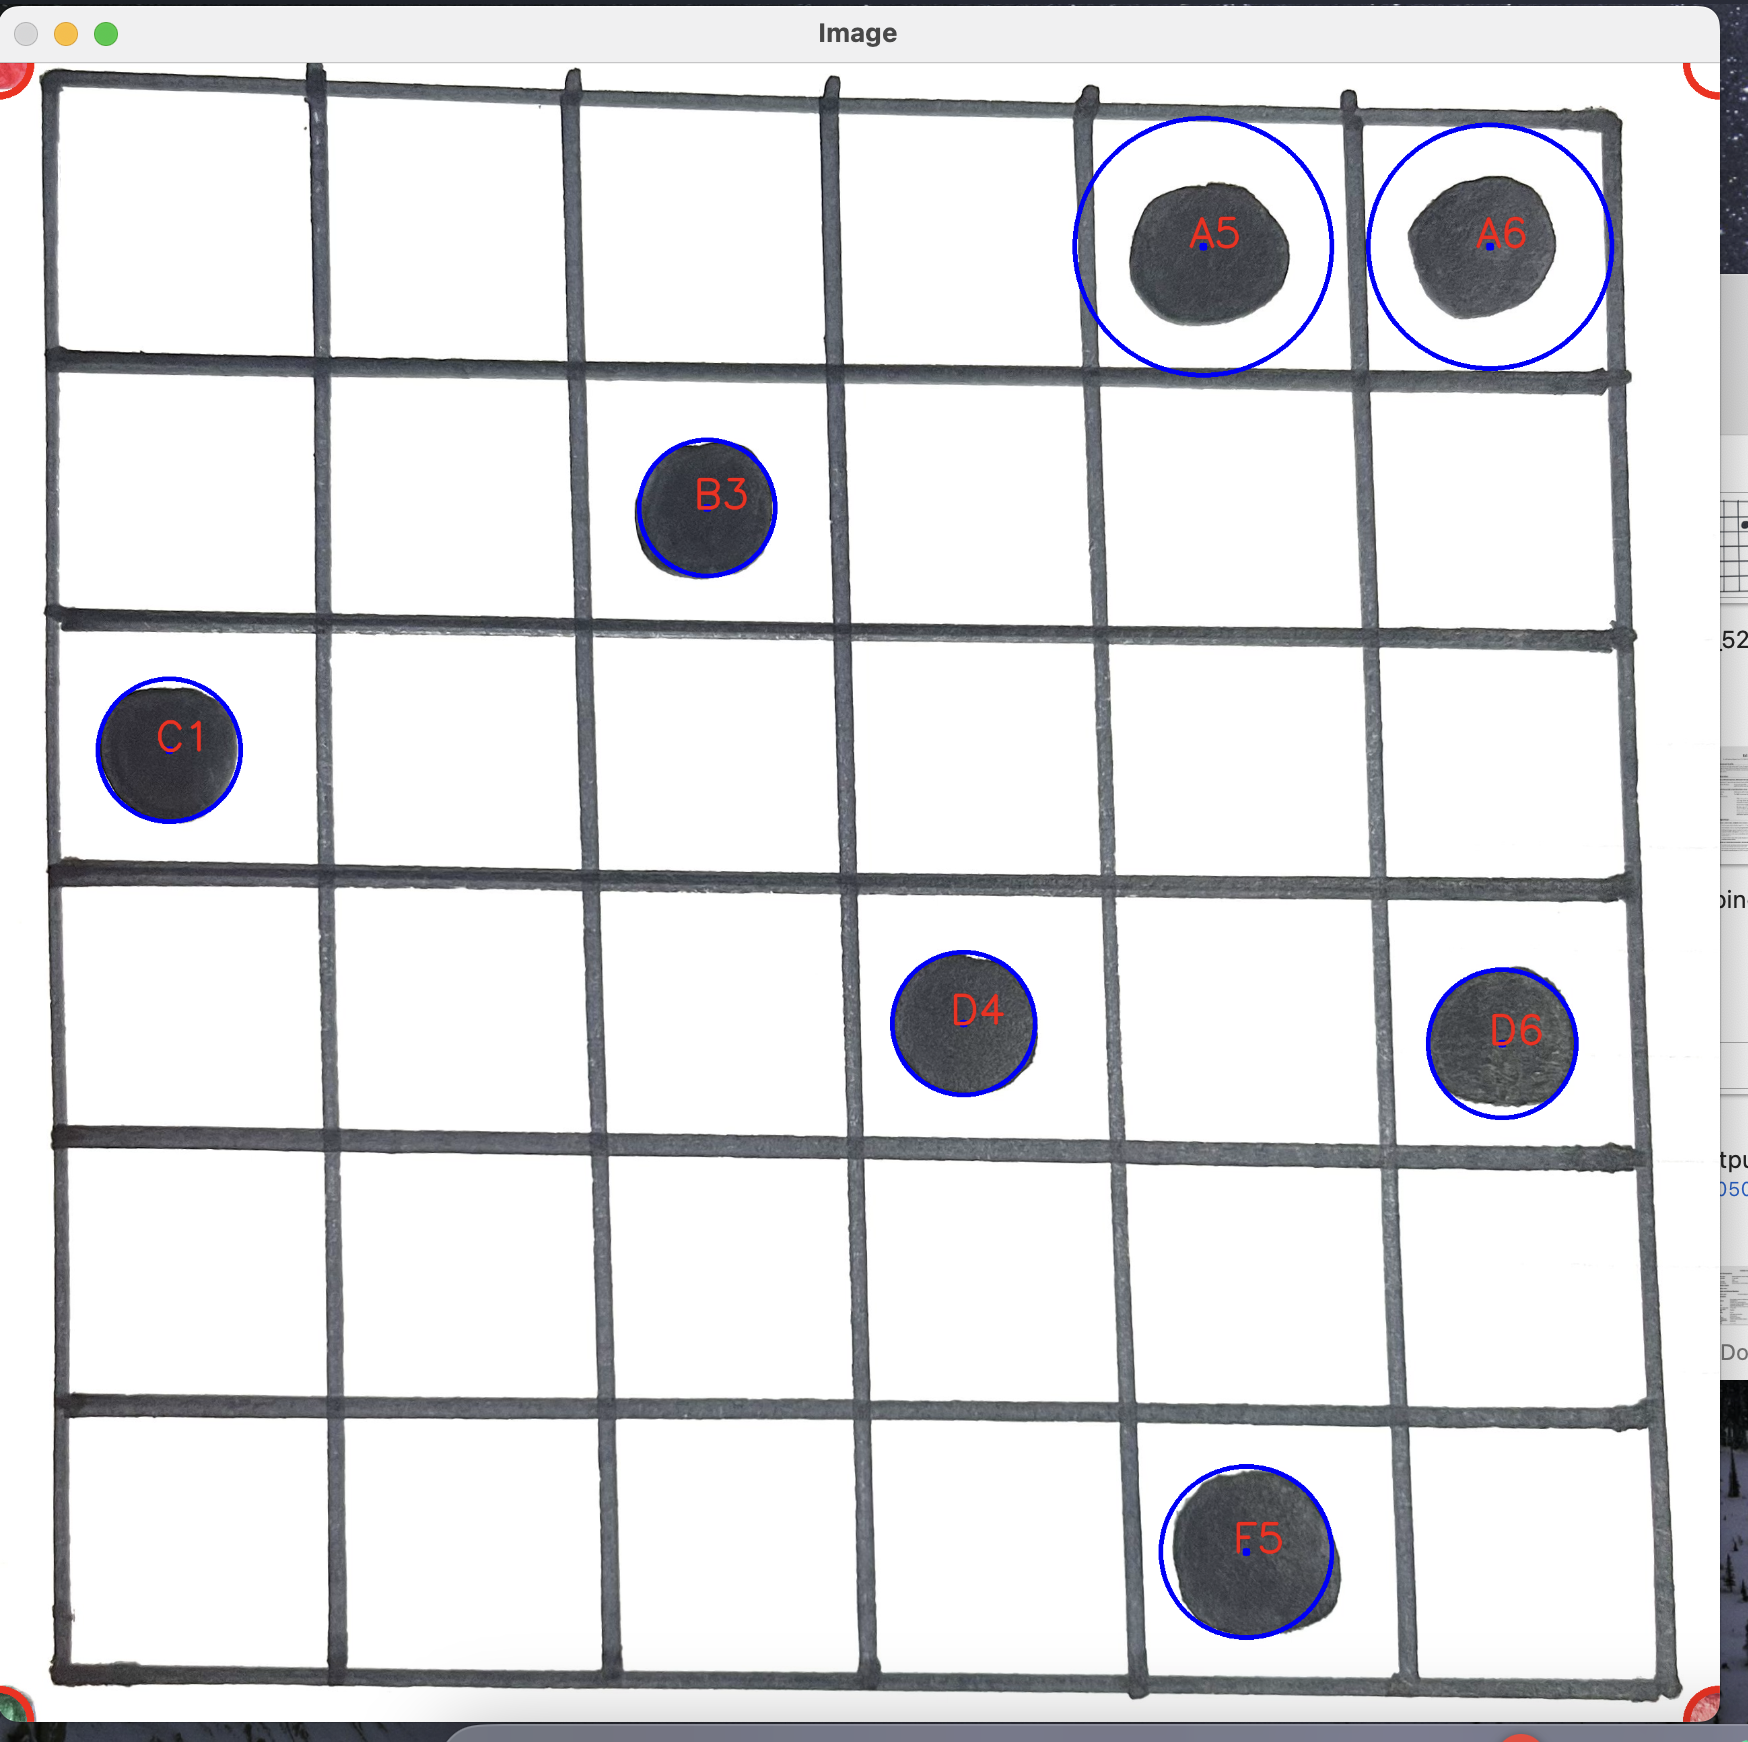
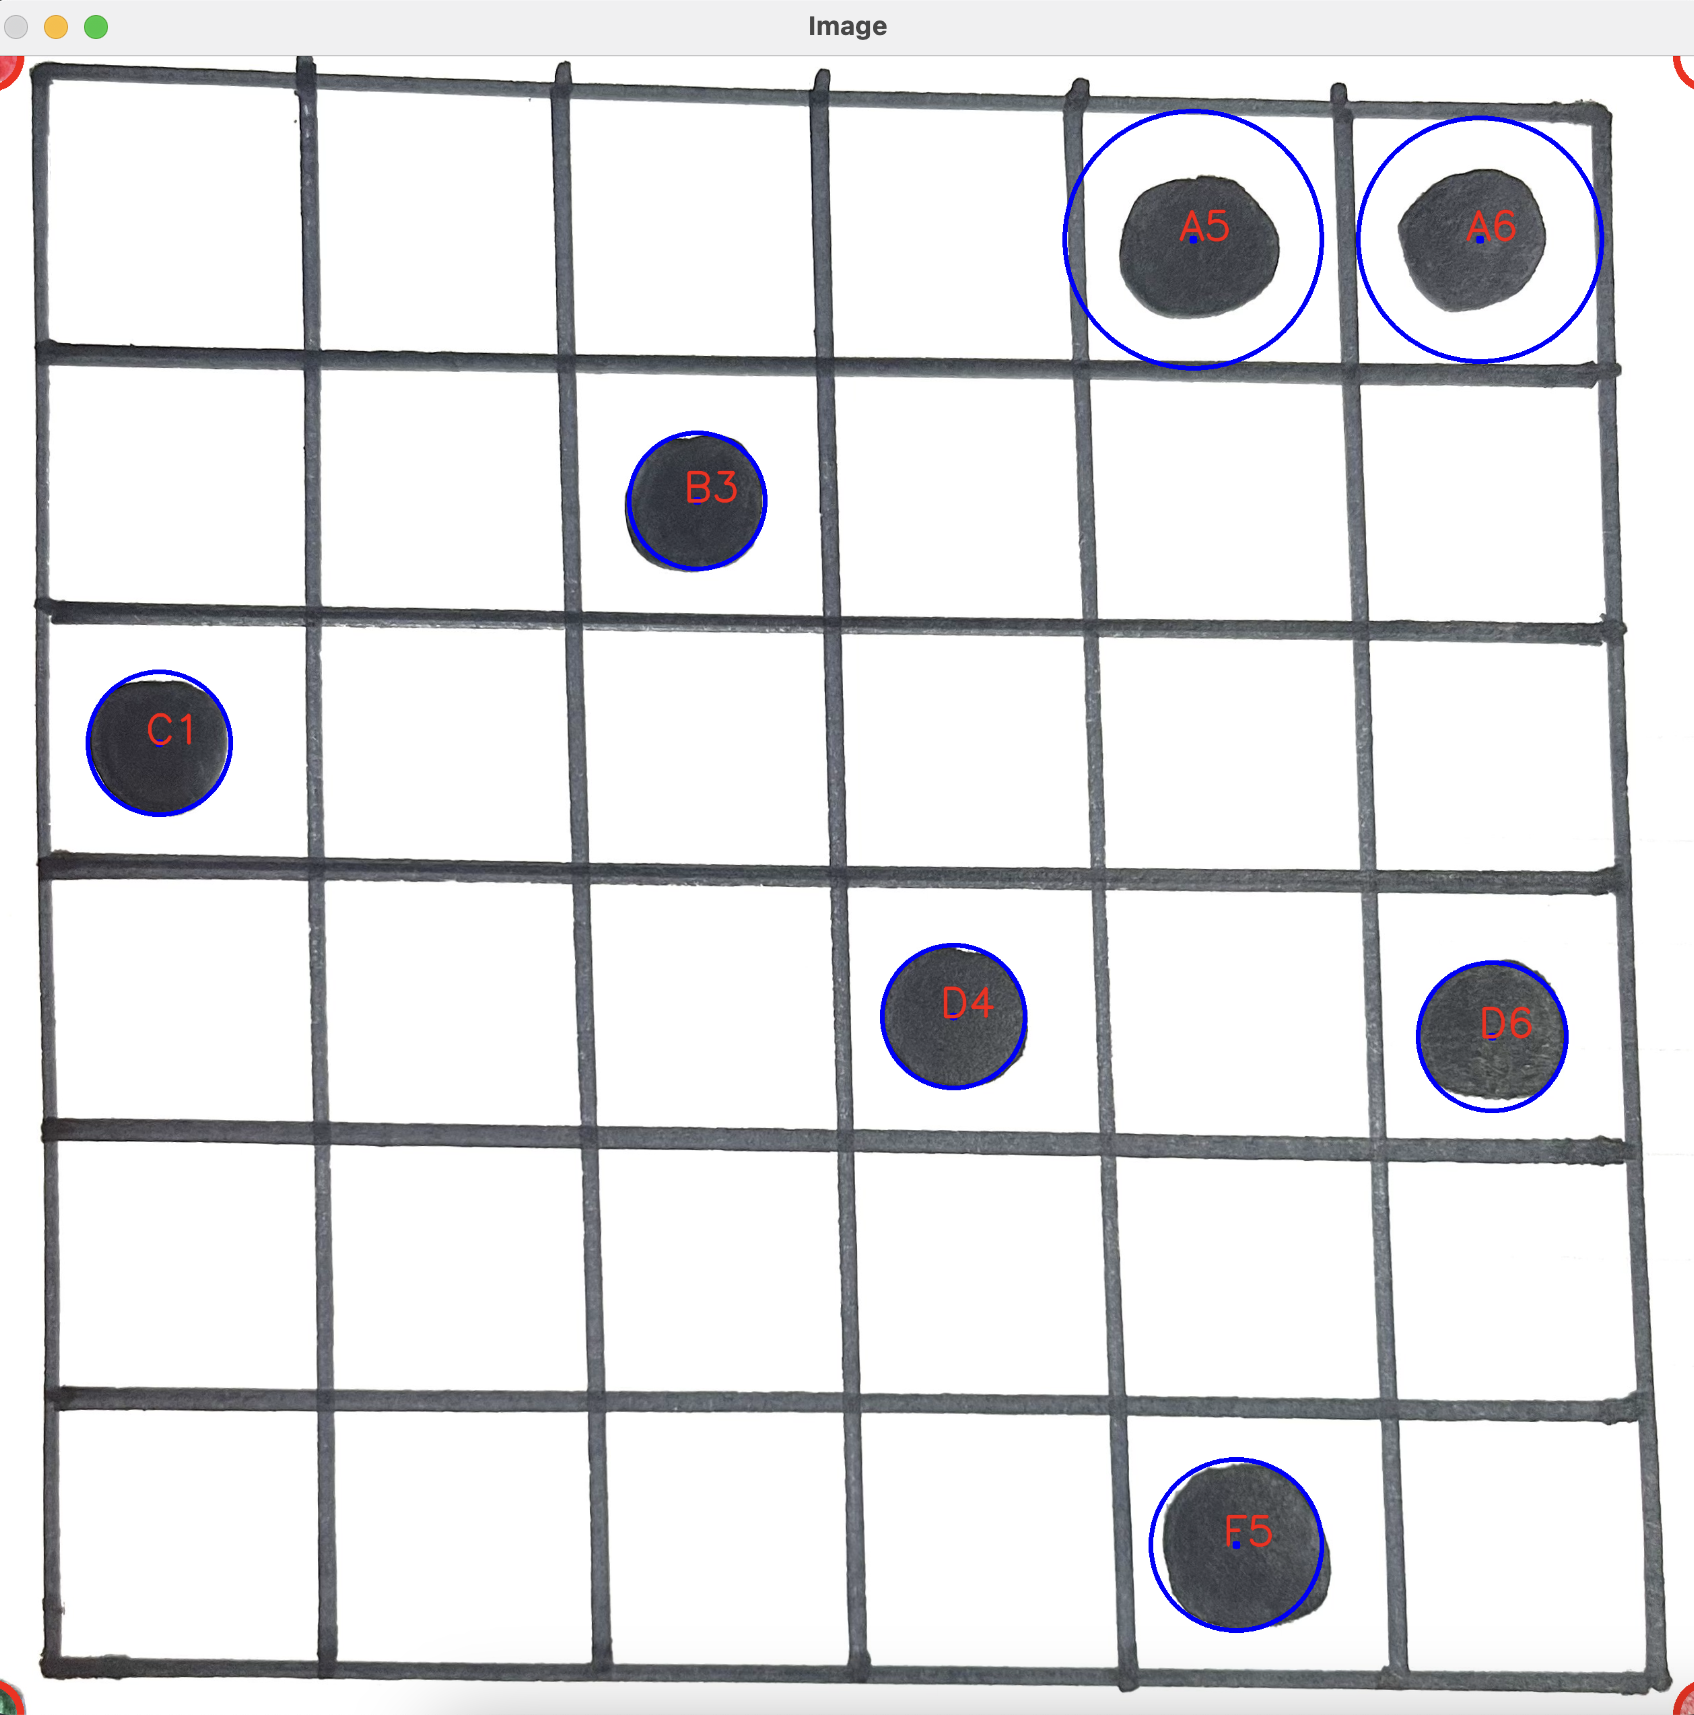
Finishing touches
better README and a random solver mode too

Changed region(s): [[0.0, 0.0, 1.0, 1.0], [0.0921, 0.1854, 0.1228, 0.2163]]

diff --git a/genius_square_solver/random_solver.py b/genius_square_solver/random_solver.py
@@ -1,0 +1,35 @@
+"""
+This is the code file for the random solver mode for the Genius Square Solver project.
+"""
+
+import typing as t
+from dice import Die, letter_coord_to_index
+from board import Board
+
+
+def main() -> None:
+    """
+    The main function to run a demo solve of Genius Square.
+
+    :return: None
+    """
+    # create dice
+    all_dice_faces = ['E6,F5,E4,F4,D5,E5', 'F3,D2,E2,C1,A1,D1', 'F1,F1,A6,F1,A6,A6',
+                      'B1,C2,A2,B3,A3,B2', 'A5,E1,A5,B6,F2,F2', 'C4,D3,B4,C3,D4,E3',
+                      'C5,F6,A4,D6,C6,B5']
+    dice: t.List[Die] = [Die(dice_face.split(',')) for dice_face in all_dice_faces]
+    # create blockers
+    blockers = [die.throw() for die in dice]
+    blockers: t.List[t.Any] = [letter_coord_to_index(die) for die in blockers]
+
+    # create board
+    board = Board(blockers, limit=1)
+    print("Solving...")
+    print(board)
+    board.solve()
+    print("Solution:")
+    print(board)
+
+
+if __name__ == '__main__':
+    main()

diff --git a/genius_square_solver/__main__.py b/genius_square_solver/__main__.py
@@ -17,7 +17,7 @@ def main() -> None:
 
     # Read the image
     print("Reading image...")
-    path = '../res/test_board.jpg'
+    path = '../res/test2.jpg'
     image_reader = ImageReader(path)
     image_reader.process()
 

diff --git a/README.md b/README.md
@@ -1,3 +1,23 @@
 # Genius Square Solver
 
 This software solves any valid problem created by the 'Genius Square' board game
+
+<img width="400" alt="Read data" src="res/Read Data.png">
+<img width="400" alt="Screenshot 2023-08-07 at 10 56 45" src="res/Console output.png">
+
+# Introduction
+I wanted to create software to solve the Genius Square board game.
+The game is a 6x6 board with 9 pieces that you have to fit into the board. The pieces are different shapes and sizes, and the board has a few fixed pieces.
+The goal is to fit the pieces into the board in such a way that the pieces do not overlap and that the empty spaces are filled.
+
+I then decided to use computer vision to read in the state of a board and solve it. I don't have any boards
+to hand though so I have used paper in this instance.
+
+## How to use
+### Computer Vision Mode
+Run the __main__ file and put replace the path variable with the path to your own image.
+
+### Random mode
+If you want to solve a random problem, run the ```random_solver.py``` file.
+
+
